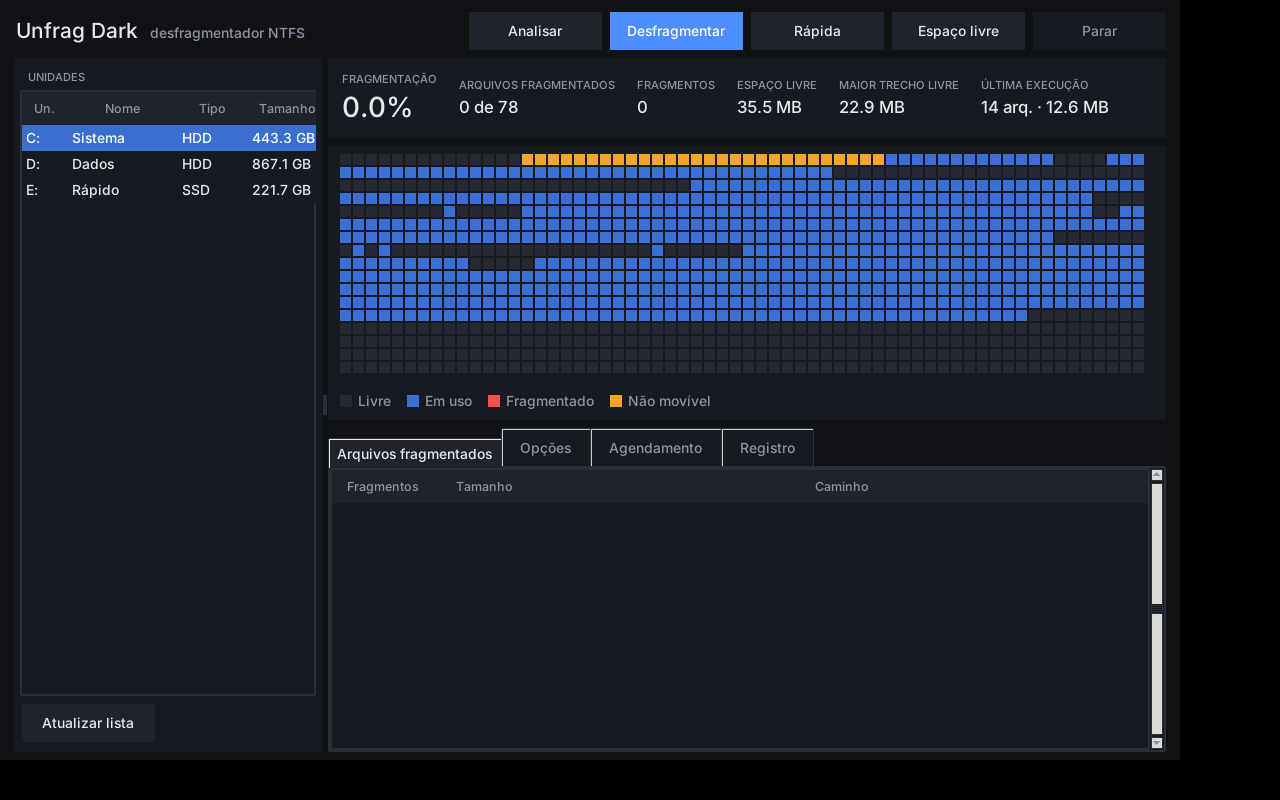
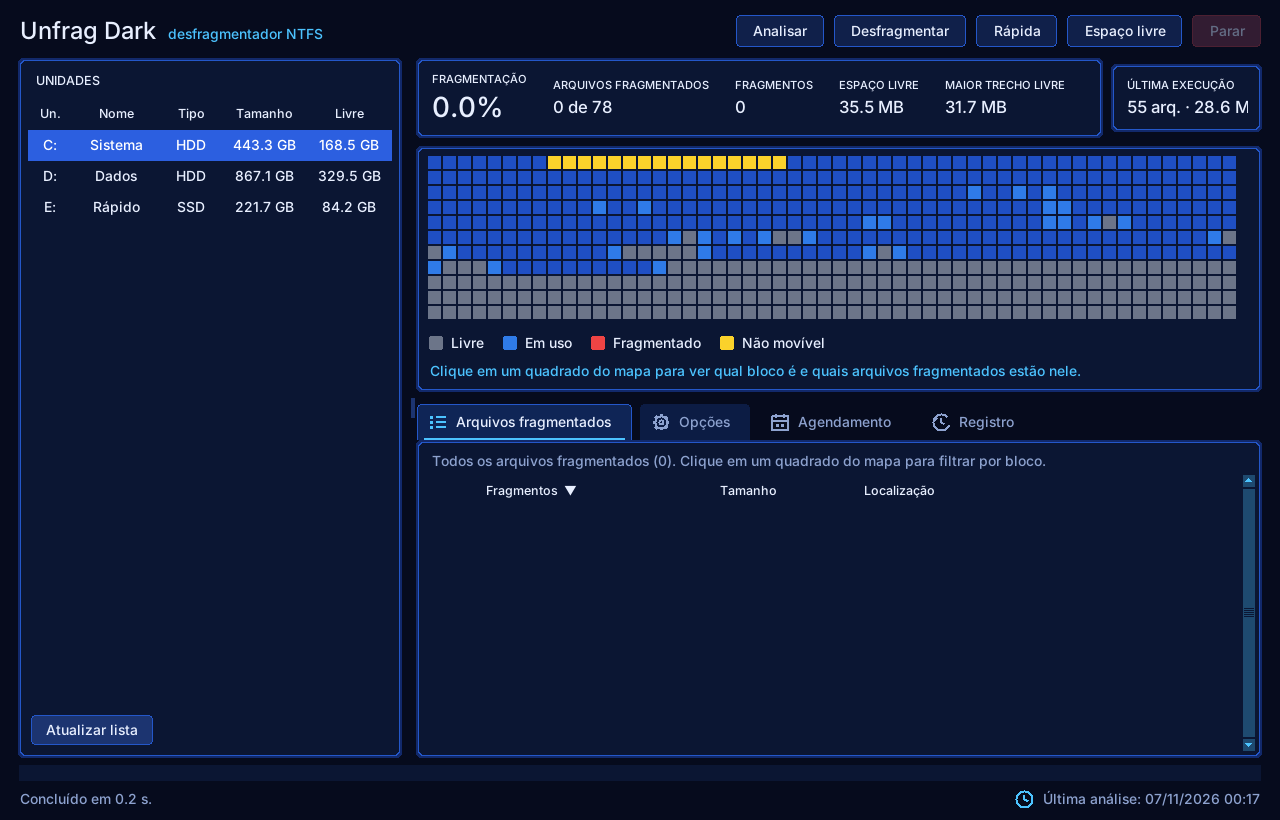
Atualiza README e capturas de tela para a versão 0.1.8
Reescreve o README (funções, velocidade, CLI, segurança/validação, módulos),
regenera as capturas (análise, bloco, desfragmentado, opções, cores,
agendamento) e adiciona tools/make_screenshots.py.

Claude-Session: https://claude.ai/code/session_01HBMELiZvNgmfTNszBkAw8x

diff --git a/tools/make_screenshots.py b/tools/make_screenshots.py
@@ -1,0 +1,84 @@
+"""Gera as capturas de tela de docs/ com a interface real em modo demo (volumes simulados).
+
+Linux/macOS com X11 e ImageMagick (comando `import`):
+
+    xvfb-run -a -s "-screen 0 1280x860x24" python tools/make_screenshots.py
+
+Usa configurações temporárias (não mexe nas suas), desliga a bandeja e a verificação de atualizações.
+"""
+import json, os, subprocess, sys, time, tempfile
+tmp = tempfile.mkdtemp(prefix="unfrag-shots-")
+os.environ["APPDATA"] = tmp
+os.environ["UNFRAG_TRAY"] = "0"
+os.makedirs(os.path.join(tmp, "unfrag-dark"), exist_ok=True)
+json.dump({"check_updates": False}, open(os.path.join(tmp, "unfrag-dark", "settings.json"), "w"))
+sys.path.insert(0, os.path.join(os.path.dirname(os.path.abspath(__file__)), "..", "src"))
+import tkinter as tk
+from unfrag import gui, diskmap
+
+OUT = os.path.join(os.path.dirname(os.path.abspath(__file__)), "..", "docs") + os.sep
+root = tk.Tk()
+app = gui.App(root, demo=True)
+root.geometry("1280x820+0+0")
+
+def pump(cond=lambda: True, timeout=40, extra=0.4):
+    end = time.time() + timeout
+    while time.time() < end and not cond():
+        root.update(); time.sleep(0.02)
+    t = time.time() + extra
+    while time.time() < t:
+        root.update(); time.sleep(0.02)
+
+def done():
+    return not (app.worker and app.worker.is_alive()) and app.q.empty()
+
+def shot(name):
+    pump(extra=0.5)
+    subprocess.run(["import", "-window", "root", "-crop", "1280x820+0+0", "+repage", OUT + name], check=True)
+    print("ok", name)
+
+class Ev:  # evento falso de clique
+    def __init__(self, x, y): self.x, self.y = x, y
+
+pump(extra=1.0)
+app.nb.select(0)
+app.start("analyze"); pump(lambda: app.worker is not None and done(), extra=0.8)
+shot("screenshot-analyze.png")
+
+# detalhe de um bloco fragmentado
+cols, step, size = app._map_geom
+idx = next(i for i, s in enumerate(app.cells) if s == diskmap.FRAGMENTED)
+app._on_map_click(Ev((idx % cols) * step + 4, (idx // cols) * step + 4)); pump(extra=0.6)
+shot("screenshot-block.png")
+app._clear_selection(); pump()
+
+app.start("freespace"); pump(lambda: done(), timeout=120, extra=0.8)
+app.nb.select(0)
+shot("screenshot-defrag.png")
+
+sfs = [w for w in app.nb.body.winfo_children() if isinstance(w, gui.ScrollFrame)]
+def find_label(w, text):
+    try:
+        if str(w.cget("text")).startswith(text):
+            return w
+    except tk.TclError:
+        pass
+    for c in w.winfo_children():
+        r = find_label(c, text)
+        if r: return r
+app.nb.select(1); pump()
+sfs[0].canvas.yview_moveto(0); pump()
+shot("screenshot-options.png")
+lbl = find_label(sfs[0].inner, "Cores do app")
+sfs[0].inner.update_idletasks()
+frac = max(0.0, (lbl.winfo_y() - 12) / max(1, sfs[0].inner.winfo_height())) if lbl else 0.5
+print("cores em", frac)
+sfs[0].canvas.yview_moveto(frac); pump()
+shot("screenshot-colors.png")
+sfs[0].canvas.yview_moveto(0)
+app.nb.select(2); pump(); shot("screenshot-schedule.png")
+app.nb.select(0); pump()
+b = app.btns[3]
+b.event_generate("<Enter>"); pump(extra=1.2)
+shot("screenshot-tooltip.png")
+root.destroy()

diff --git a/README.md b/README.md
@@ -2,56 +2,34 @@
 
 <img src="docs/icon.png" width="96" align="right" alt="Ícone do Unfrag Dark">
 
-Desfragmentador de disco **NTFS** para Windows, de código aberto, com **tema escuro**.
-Projeto independente, escrito do zero em Python (sem código, nome, ícones ou textos de terceiros).
-Foi inspirado, em termos de *funcionalidades*, em desfragmentadores clássicos para PC.
+[![build](https://github.com/MissionBreak56/Unfrag-Dark-/actions/workflows/build.yml/badge.svg)](https://github.com/MissionBreak56/Unfrag-Dark-/actions/workflows/build.yml)
+[![validar no Windows](https://github.com/MissionBreak56/Unfrag-Dark-/actions/workflows/validate.yml/badge.svg)](https://github.com/MissionBreak56/Unfrag-Dark-/actions/workflows/validate.yml)
+![licença](https://img.shields.io/badge/licen%C3%A7a-MIT-blue)
 
-![Análise](docs/screenshot-analyze.png)
-![Depois de desfragmentar](docs/screenshot-defrag.png)
-![Opções com explicações](docs/screenshot-options.png)
+Desfragmentador de disco **NTFS** para Windows 10/11, de código aberto, com **tema escuro** e mapa de disco
+interativo. Projeto independente, escrito do zero em Python: não usa código, nome, ícones nem textos de
+terceiros (veja [`docs/CLEAN-ROOM.md`](docs/CLEAN-ROOM.md)). Foi inspirado, em termos de *funcionalidades*,
+em desfragmentadores clássicos para PC.
 
-> As capturas usam o **modo demo** (volumes simulados), por isso funcionam em qualquer sistema.
+![Análise de uma unidade: fragmentação, mapa de blocos e lista de arquivos fragmentados](docs/screenshot-analyze.png)
 
-## Funções
+| Detalhe de um bloco do mapa | Depois de desfragmentar |
+|---|---|
+| ![Clicar em um quadrado mostra o bloco e os arquivos fragmentados que têm dados nele](docs/screenshot-block.png) | ![Fragmentação em 0,0% e espaço livre agrupado](docs/screenshot-defrag.png) |
 
-| Função | GUI | CLI |
+| Opções | Cores do app | Agendamento |
 |---|---|---|
-| Listar unidades (tipo HDD/SSD, sistema de arquivos, espaço livre) | ✔ | `unfrag list` |
-| Analisar fragmentação sem alterar nada | Analisar | `unfrag analyze C:` |
-| Desfragmentar (completo) | Desfragmentar | `unfrag defrag C:` |
-| Desfragmentação rápida (arquivos até 256 MiB) | Rápida | `--mode quick` |
-| Consolidar espaço livre | Espaço livre | `--mode freespace` |
-| Desfragmentar uma pasta ou um arquivo | Opções / botão direito na lista | `--path "C:\Pasta"` |
-| Mover arquivos grandes / por extensão para o fim do disco | Opções | `--move-large 500` / `--move-ext .iso,.vhdx` |
-| Mapa de disco colorido (livre / em uso / fragmentado / não movível) | ✔ | — |
-| Lista de arquivos fragmentados (ordenável) | ✔ | — |
-| Proteção para SSD (ignora, a menos que forçado) | ✔ | `--force-ssd` |
-| Threads de leitura da análise (1–64, 0 = automático) | Opções | `--threads N` |
-| Só executar se a fragmentação for ≥ X% | ✔ | `--min-frag 10` |
-| Não executar na bateria / se certos processos estiverem rodando | ✔ | `--skip-battery` / `--exclude app.exe` |
-| Desligar o PC ao terminar | ✔ | `--shutdown` |
-| Agendamento (diário/semanal/mensal) via Agendador de Tarefas | Agendamento | `unfrag schedule create C:` |
-| Parar a qualquer momento (cancelamento seguro) | Parar | Ctrl+C |
+| ![Aba Opções](docs/screenshot-options.png) | ![Temas e cores personalizáveis](docs/screenshot-colors.png) | ![Aba Agendamento](docs/screenshot-schedule.png) |
 
-## Como funciona
+> As capturas usam o **modo demo** (volumes simulados), então nenhum disco real foi tocado. Para refazê-las:
+> `tools/make_screenshots.py`.
 
-Usa as IOCTLs documentadas do Windows para desfragmentação online, as mesmas que a Microsoft
-descreve na documentação de *Defragmenting Files*:
+## Baixar e usar
 
-* `FSCTL_GET_VOLUME_BITMAP` – mapa de clusters livres/ocupados;
-* `FSCTL_GET_RETRIEVAL_POINTERS` – extents de cada arquivo;
-* `FSCTL_MOVE_FILE` – o próprio NTFS move os clusters, mantendo a integridade dos dados;
-* `IOCTL_STORAGE_QUERY_PROPERTY` – detecta SSD (sem penalidade de seek).
-
-O algoritmo (em `src/unfrag/engine.py`) é próprio: arquivos fragmentados são regravados em uma única
-corrida livre (first-fit, menores primeiro); o modo *espaço livre* ainda puxa arquivos do fim do volume
-para os primeiros buracos, em até 4 passadas; arquivos grandes podem ser empurrados para o fim.
-Arquivos de sistema, esparsos, criptografados (EFS), compactados pelo NTFS e pontos de reanálise
-nunca são tocados.
-
-## Instalação e uso
-
-Requer Windows 10/11 e Python 3.10+ (ou use o `.exe` gerado pelo CI em *Actions → build → Artifacts*).
+* **Executáveis:** em [Releases](https://github.com/MissionBreak56/Unfrag-Dark-/releases) ou em
+  *Actions → build → Artifacts* (`UnfragDark.exe` = interface gráfica, `unfrag.exe` = linha de comando).
+  Os dois pedem permissão de administrador (UAC), que a API de desfragmentação exige.
+* **Pelo Python** (3.10+):
 
 ```bat
 pip install .
@@ -59,11 +37,9 @@ unfrag gui                 :: interface gráfica (execute como Administrador)
 unfrag list
 unfrag analyze C:
 unfrag defrag C: --mode quick
-unfrag defrag D: --mode freespace --move-large 1000 --skip-battery
-unfrag schedule create C: --frequency semanal --time 03:00 --mode quick
 ```
 
-Teste sem risco em qualquer sistema (inclusive Linux/macOS):
+**Teste sem risco, em qualquer sistema** (Windows, Linux ou macOS), com volumes simulados:
 
 ```bash
 pip install .
@@ -71,79 +47,159 @@ unfrag --demo gui
 unfrag --demo defrag C: --mode freespace
 ```
 
-## Velocidade da análise
+## Funções
 
-* Os arquivos são lidos em **várias threads** (escolha em *Opções → Threads de leitura*, `--threads N` na CLI ou `UNFRAG_THREADS=N`; padrão automático: 2 por núcleo, até 16) —
-  a espera pelo disco libera o GIL, então a leitura de extents é paralela.
-* Arquivos que cabem em **1 cluster não podem fragmentar** e são apenas contados, sem abrir o arquivo.
+| Função | Interface | Linha de comando |
+|---|---|---|
+| Listar unidades (tipo HDD/SSD, sistema de arquivos, espaço livre) | ✔ | `unfrag list` |
+| Analisar a fragmentação sem alterar nada | **Analisar** | `unfrag analyze C:` |
+| Desfragmentação completa | **Desfragmentar** | `unfrag defrag C:` |
+| Desfragmentação rápida (arquivos até 256 MiB) | **Rápida** | `--mode quick` |
+| Consolidar o espaço livre | **Espaço livre** | `--mode freespace` |
+| Desfragmentar só uma pasta ou um arquivo | Opções / botão direito na lista | `--path "C:\Pasta"` |
+| Mover arquivos grandes ou por extensão para o fim do disco | Opções | `--move-large 500` / `--move-ext .iso,.vhdx` |
+| Mapa de disco (livre / em uso / fragmentado / não movível) | ✔ | — |
+| **Clicar em um bloco do mapa:** detalhes do bloco e filtro da lista pelos arquivos que têm dados nele | ✔ | — |
+| Lista de arquivos fragmentados, ordenável | ✔ | — |
+| Proteção para SSD (ignorado, a menos que forçado) | ✔ | `--force-ssd` |
+| Leitura direta da MFT para analisar mais rápido | Opções | `--mft` / `--no-mft` |
+| Threads de leitura da análise (1–64; 0 = automático) | Opções | `--threads N` |
+| Só executar se a fragmentação for ≥ X% | ✔ | `--min-frag 10` |
+| Não executar na bateria / se certos programas estiverem abertos | ✔ | `--skip-battery` / `--exclude app.exe` |
+| Desligar o PC ao terminar | ✔ | `--shutdown` |
+| Agendamento diário/semanal/mensal (Agendador de Tarefas do Windows) | **Agendamento** | `unfrag schedule create C:` |
+| Parar a qualquer momento, com cancelamento seguro | **Parar** | `Ctrl+C` |
+| Bandeja do sistema: fechar a janela mantém o trabalho rodando; o ícone muda de cor (laranja = trabalhando, verde = concluído, vermelho = erro) | Opções | — |
+| Iniciar com o Windows, minimizado na bandeja | Opções | — |
+| Aviso do Windows ao terminar tarefas agendadas | automático | `--notify` |
+| Temas prontos (Azul, Grafite, Esmeralda, Violeta) e cores individuais | Opções → Cores | — |
+| Janela lembra tamanho, posição e se estava maximizada; instância única | automático | — |
+| Resumo da última execução, inclusive as feitas por tarefa agendada | ✔ | — |
+| Aviso de versão nova no GitHub (pode ser desligado) | Opções | — |
+
+Cada botão tem uma explicação (passe o mouse sobre ele) e cada opção tem um texto explicativo na aba Opções.
+
+## Como funciona
+
+Usa as IOCTLs documentadas do Windows para desfragmentação online, as mesmas descritas pela Microsoft na
+documentação de *Defragmenting Files*:
+
+* `FSCTL_GET_VOLUME_BITMAP`: mapa de clusters livres e ocupados;
+* `FSCTL_GET_RETRIEVAL_POINTERS`: extents de cada arquivo;
+* `FSCTL_MOVE_FILE`: o próprio NTFS move os clusters e mantém a integridade dos dados;
+* `IOCTL_STORAGE_QUERY_PROPERTY`: detecta SSD (sem penalidade de seek).
+
+O algoritmo (`src/unfrag/engine.py`) é próprio:
+
+* **Desfragmentar:** cada arquivo fragmentado é regravado em uma única corrida de espaço livre (*first-fit*),
+  dos menores para os maiores.
+* **Rápida:** igual, só para arquivos de até 256 MiB e sem consolidar o espaço livre.
+* **Espaço livre:** a completa, e depois arquivos do fim do volume são puxados para os primeiros buracos que os
+  comportam (até 4 passadas), juntando o espaço livre em um bloco grande no final.
+* **Arquivos grandes ou por extensão** podem ser empurrados para o fim do disco.
+* Antes de mover cada arquivo o motor confere o estado real dele no volume. Se algo mudou, o arquivo é
+  ignorado; se o mapa local divergir do disco, o mapa é relido em vez de seguir com dados velhos.
+* Vários nomes do mesmo arquivo (*hard links*, comuns em `WinSxS`) são reconhecidos e contados uma vez.
+* Arquivos de sistema, esparsos, criptografados (EFS), compactados pelo NTFS, pontos de reanálise e arquivos
+  que não abrem nunca são movidos (aparecem como ignorados, não como falhas).
+
+## Velocidade
+
+**Análise**
+
+* **Leitura direta da MFT** (padrão; desligue em Opções ou com `--no-mft`): a análise do volume inteiro lê a
+  MFT do NTFS em sequência em vez de abrir cada arquivo. No Windows de teste do CI (1,18 milhão de arquivos)
+  levou 20 s contra 9 min 24 s do método clássico, com os mesmos extents. Se algo não puder ser lido com
+  segurança, aquele arquivo (ou o volume todo) volta ao método clássico e o motivo vai para o Registro.
+* O método clássico lê os arquivos em **várias threads** (Opções → *Threads de leitura*, `--threads N` ou
+  `UNFRAG_THREADS=N`; automático: 2 por núcleo, até 16).
+* Arquivos de até 1 cluster não podem fragmentar e só são contados, sem abrir.
 * O mapa de clusters livres é interpretado por blocos homogêneos (≈10× mais rápido que bit a bit).
-* Buffers reaproveitados por thread e caminhos longos sem `abspath` por arquivo.
-* O coletor de lixo do Python fica **pausado durante a varredura** (milhões de objetos pequenos sem
-  ciclos; o GC os reexaminava várias vezes) e o buffer de extents é decodificado de uma vez
-  (`ntfs.py`), sem copiar o buffer nem fazer um `struct` por extent. Em um benchmark sintético
-  (300 mil arquivos, só CPU em Python, sem E/S) a análise caiu de ~2,7 s para ~1,3 s.
-* Objetos ctypes (buffer, `c_int64`, `DWORD`, `byref`) são reaproveitados por thread.
+* O coletor de lixo do Python fica pausado durante a varredura e o buffer de extents é decodificado de uma
+  vez, sem um `struct` por extent; objetos ctypes são reaproveitados por thread. Em um benchmark sintético
+  (300 mil arquivos, só CPU) a análise caiu de ~2,7 s para ~1,3 s.
 * A janela e a CLI mostram o tempo da análise.
-* **Leitura direta da MFT** (padrão; `--no-mft` ou Opções desligam): a análise do volume inteiro lê a MFT do NTFS
-  em sequência em vez de abrir cada arquivo. No Windows de teste do CI (1,18 milhão de arquivos) levou 20 s contra
-  9 min 24 s do método clássico, com os mesmos extents. Se algo não puder ser lido com segurança, aquele arquivo (ou
-  o volume todo) volta ao método clássico.
-* **Iniciar com o Windows** (Opções): tarefa agendada de logon com privilégios altos, sem pedir confirmação a cada
-  login, abre minimizado na bandeja. O ícone da bandeja muda de cor (laranja = trabalhando, verde = concluído,
-  vermelho = erro) e as tarefas agendadas avisam ao terminar.
-* **Atualizações:** o programa verifica sozinho se há versão nova no GitHub e mostra um aviso com o botão Baixar.
-* **Cores personalizáveis** (Opções → Cores do app): temas prontos (Azul, Grafite, Esmeralda, Violeta) ou cada
-  cor individual (blocos livres/em uso/fragmentados/não movíveis, fundo, cartões, destaque e texto). Aplica na
-  hora e fica salvo. Os blocos livres são cinza por padrão.
-* **Posição da janela:** o programa lembra tamanho, posição e se estava maximizado (sempre dentro da tela), e a
-  janela inicial se ajusta a telas pequenas.
-* **Instância única:** abrir o programa de novo com ele já aberto (inclusive escondido na bandeja) mostra o
-  aviso "O Unfrag Dark já está aberto" e traz a janela existente para a frente.
-* **Detalhe do bloco:** clique em um quadrado do mapa para ver qual bloco é (número, clusters, posição no
-  disco, % livre) e quais arquivos fragmentados têm dados nele; a lista passa a mostrar só esses arquivos,
-  com quantos pedaços de cada um caem no bloco. Clique de novo no quadrado (ou em *Mostrar todos*) para voltar.
-* **Bandeja do sistema:** ao clicar no X a janela some e o programa continua em execução ao lado do relógio
-  (inclusive uma análise/desfragmentação em andamento). Clique no ícone para abrir; o menu do ícone tem
-  *Abrir*, *Parar operação* e *Sair*. Dá para desligar em Opções ("Fechar a janela minimiza para a bandeja").
 
-## Segurança — leia antes de usar em disco real
+**Modo Espaço livre**
 
-* **Faça backup.** O `FSCTL_MOVE_FILE` é a API oficial e segura do NTFS, mas qualquer ferramenta que
-  mexe no disco pode encontrar falhas de hardware ou de energia.
-* O motor (algoritmo, mapa livre, cancelamento, tratamento de falhas, invariantes de integridade) é
-  coberto por **testes automatizados com um volume simulado**. O **backend Windows** (`backends/windows.py`)
-  foi escrito seguindo a documentação, mas **ainda não foi validado em hardware real** pelo autor —
-  comece por `analyze`, depois por uma pasta de teste (`--path`) antes de rodar no disco todo.
-* Em SSD a desfragmentação é desnecessária e reduz a vida útil; o app ignora SSDs por padrão.
-* Requer execução como Administrador. Todo o acesso é local; o app não faz conexões de rede e não
-  coleta telemetria.
+* A busca de buracos usa dicas por classe de tamanho e pula direto para o primeiro trecho que comporta o
+  arquivo (teste sintético com 200 mil trechos livres: ~112 s → ~7 s para 60 mil buscas, resultados idênticos).
+* A compactação para quando não resta buraco antes dos arquivos que faltam.
+* A verificação final relê só o mapa de espaço livre e os arquivos movidos, em paralelo. *Reanálise completa
+  ao final* (Opções) ou `--full-rescan` (CLI) voltam ao comportamento de reanalisar o volume inteiro.
+* O tempo restante é dominado pela cópia real dos clusters pelo NTFS, que depende do disco.
+
+## Linha de comando
+
+```bat
+unfrag list
+unfrag analyze C: [--path PASTA] [--no-recurse] [--threads N] [--mft | --no-mft]
+unfrag defrag  C: [--mode defrag|quick|freespace] [--path PASTA] [--no-recurse]
+                  [--move-large MB] [--move-ext .iso,.vhdx] [--min-frag PCT]
+                  [--force-ssd] [--skip-battery] [--exclude APP.EXE] [--shutdown]
+                  [--full-rescan] [--threads N] [--mft | --no-mft] [--notify]
+unfrag schedule create|delete C: [--frequency diária|semanal|mensal] [--time 03:00]
+                  [--mode quick] [--move-large MB] [--dry-run]
+unfrag gui
+unfrag --demo ...          # volumes simulados, não toca em discos
+```
+
+Exemplos:
+
+```bat
+unfrag defrag D: --mode freespace --move-large 1000 --skip-battery
+unfrag schedule create C: --frequency semanal --time 03:00 --mode quick
+```
+
+## Segurança, validação e privacidade
+
+* **Faça backup.** O `FSCTL_MOVE_FILE` é a API oficial e segura do NTFS, mas qualquer ferramenta que mexe no
+  disco pode encontrar falhas de hardware ou de energia.
+* **Testes automatizados:** o motor (algoritmo, mapa livre, cancelamento, falhas, hard links, estado
+  desatualizado, invariantes de integridade) é testado com um volume simulado, e a interface tem testes de
+  fumaça (121 testes passam com interface gráfica; 87 sem ela).
+* **Validação no Windows:** o workflow [`validar-no-windows`](.github/workflows/validate.yml) roda o programa de
+  verdade em um Windows com NTFS, como administrador: compara a leitura da MFT com o método clássico, cria uma
+  pasta de teste com arquivos fragmentados de propósito, desfragmenta e confere o SHA-256 de cada arquivo antes
+  e depois, e testa a tarefa de início com o Windows. Isso roda em uma máquina virtual do GitHub, então **não
+  substitui** testes em discos e hardware variados: comece por `analyze` e por uma pasta de teste (`--path`)
+  antes de desfragmentar a unidade inteira.
+* **SSD:** a desfragmentação é desnecessária e reduz a vida útil; o app ignora SSDs por padrão.
+* **Privacidade:** tudo acontece localmente e não há telemetria. A única conexão de rede é a verificação de
+  versão nova, que apenas lê o redirecionamento de `github.com/MissionBreak56/Unfrag-Dark-/releases/latest`
+  (sem enviar dados). Dá para desligá-la em Opções → *Verificar atualizações ao iniciar*.
+* Requer execução como Administrador.
 
 ## Desenvolvimento
 
 ```bash
 pip install -e . pytest
-pytest
+pytest                      # os testes de interface só rodam com display
+# Linux sem tela:  xvfb-run -a pytest
 ```
 
-Estrutura: `engine.py` (algoritmo), `freespace.py` (mapa de espaço livre), `backends/windows.py`
-(API do Windows), `backends/fake.py` (volume simulado), `diskmap.py`, `cli.py`, `gui.py`, `scheduler.py`.
+Estrutura de `src/unfrag/`:
 
-Veja também [`docs/ANALYSIS.md`](docs/ANALYSIS.md) (análise estática do instalador que motivou a
-lista de funcionalidades) e [`docs/CLEAN-ROOM.md`](docs/CLEAN-ROOM.md).
+| Módulo | Função |
+|---|---|
+| `engine.py` | algoritmo de análise e desfragmentação |
+| `freespace.py` | mapa de espaço livre (corridas, first-fit com dicas) |
+| `backends/windows.py` | API do Windows (bitmap, extents, mover clusters, SSD) |
+| `backends/fake.py` | volume simulado para testes e `--demo` |
+| `mft.py`, `ntfs.py` | leitura da MFT e decodificação de extents (partes puras, testáveis em qualquer sistema) |
+| `scan.py` | varredura em paralelo com ordem preservada |
+| `diskmap.py`, `palette.py` | mapa de blocos e paleta de cores |
+| `gui.py`, `widgets.py` | interface Tkinter (cartões, abas, botões desenhados em Canvas) |
+| `tray.py`, `notify.py`, `single.py`, `startup.py` | bandeja, avisos, instância única, início com o Windows |
+| `updater.py` | verificação de versão no GitHub |
+| `scheduler.py`, `system.py`, `cli.py` | agendamento, utilidades e linha de comando |
+
+Ferramentas em `tools/`: `make_icon.py` (gera o ícone), `make_screenshots.py` (gera as capturas) e
+`validate_windows.py` (validação no Windows real, usada pelo CI).
+
+Veja também [`docs/ANALYSIS.md`](docs/ANALYSIS.md) (análise estática do instalador que motivou a lista de
+funcionalidades) e [`docs/CLEAN-ROOM.md`](docs/CLEAN-ROOM.md).
 
 ## Licença
 
-MIT — veja [LICENSE](LICENSE).
-
-## Velocidade do modo Espaço livre
-
-* A busca de buracos (*first-fit*) usa dicas por classe de tamanho e pula direto para o primeiro trecho
-  que pode comportar o arquivo, em vez de varrer todos os trechos livres a cada arquivo (em um teste sintético
-  com 200 mil trechos livres: ~112 s → ~7 s para 60 mil buscas, com resultados idênticos).
-* A compactação para assim que não resta mais nenhum buraco antes dos arquivos que faltam.
-* A verificação final relê só o mapa de espaço livre e os arquivos que foram movidos, em paralelo
-  (respeitando *Threads de leitura*), em vez de reanalisar o volume inteiro. Use *Reanálise completa ao final*
-  (GUI) ou `--full-rescan` (CLI) para o comportamento antigo.
-* A CLI atualiza o progresso no máximo ~15 vezes por segundo (escrever no console a cada arquivo era lento).
-
-O tempo restante é dominado pela cópia real dos clusters pelo NTFS (`FSCTL_MOVE_FILE`), que depende do disco.
+MIT. Veja [LICENSE](LICENSE).
